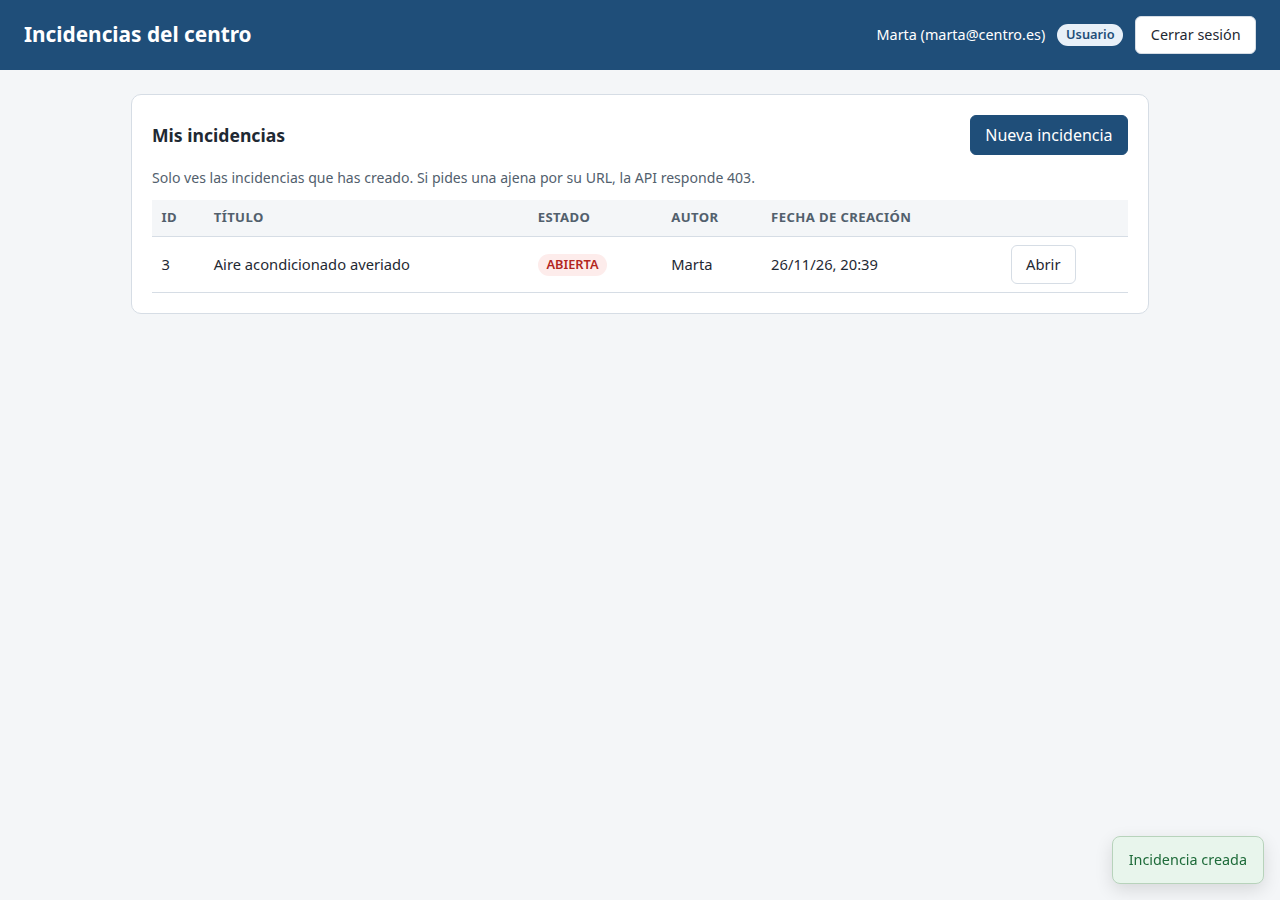
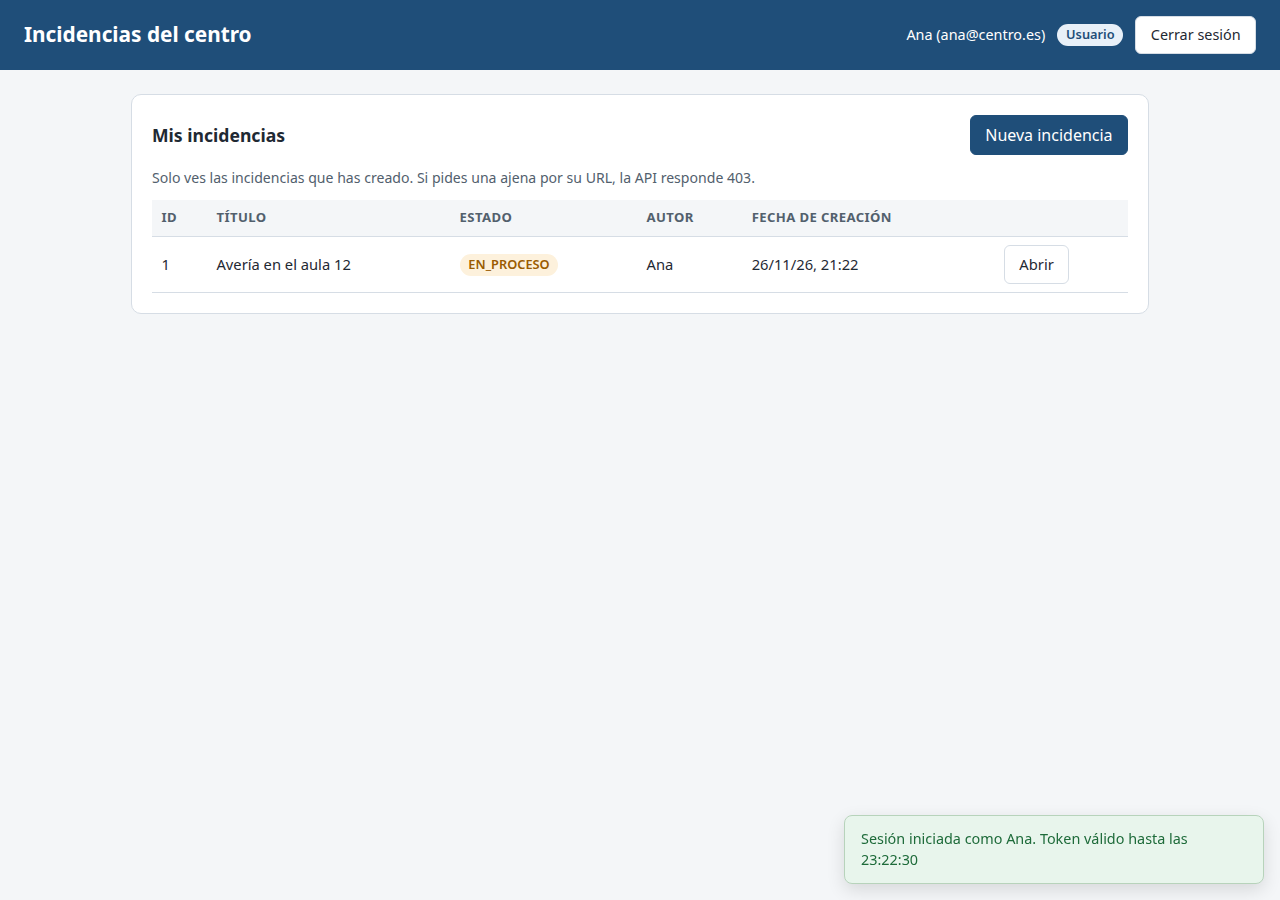
Documento los usuarios de prueba

diff --git a/README.md b/README.md
@@ -41,6 +41,10 @@ Además:
   propiedad al consultar una incidencia concreta (no basta con ocultar enlaces).
 - Lista blanca de roles al modificarlos y todas las operaciones de
   administración reservadas a `ROLE_ADMIN`.
+- **Datos iniciales**: al arrancar se crean (o se actualizan) cuatro usuarios de
+  prueba con contraseña `1234` cifrada con BCrypt: `admin@centro.es`
+  (`ROLE_ADMIN`), `tecnico@centro.es` (`ROLE_TECNICO`), `ana@centro.es` y
+  `luis@centro.es` (`ROLE_USER`).
 - Frontend sin frameworks que guarda el JWT, lo envía como `Bearer` y muestra
   los errores de la API (401, 403, 400, 404, 409).
 
@@ -147,31 +151,35 @@ las peticiones desde cualquier origen en desarrollo.
 Si el backend está en otro host o puerto, cambia `API_URL` en
 `frontend/js/config.js`.
 
-### 4.4. Perfiles iniciales (primer administrador)
+### 4.4. Datos iniciales (usuarios de prueba)
 
-El registro público solo crea `ROLE_USER`, así que el **primer**
-`ROLE_ADMIN` se asigna directamente en la base de datos de desarrollo, como
-pide el enunciado. Después ya se usa la propia API para el resto:
+Al arrancar, `config/DatosIniciales` (un `CommandLineRunner`) comprueba y deja
+siempre estos usuarios, así que **no hay que registrar nada a mano** ni tocar
+la base de datos:
 
-1. Registra los usuarios (desde el frontend o con `curl`, ver más abajo).
-2. Promociona el primero a administrador:
-
-   ```bash
-   mysql -h127.0.0.1 -P3307 -uroot -p incidencias < db/roles.sql
-   ```
-
-3. Inicia sesión con ese usuario (el token anterior seguía siendo `ROLE_USER`)
-   y usa `PATCH /usuarios/{id}/rol` para convertir otro usuario en
-   `ROLE_TECNICO` o `ROLE_ADMIN`.
-
-Usuarios que crea `docs/comprobaciones.sh`:
-
-| Email | Contraseña | Rol final |
+| Email (usuario) | Contraseña | Rol |
 |---|---|---|
-| `ana@centro.es` | `password123` | `ROLE_USER` |
-| `luis@centro.es` | `password123` | `ROLE_USER` |
-| `tecnico@centro.es` | `password123` | `ROLE_TECNICO` (lo asigna el admin) |
-| `admin@centro.es` | `password123` | `ROLE_ADMIN` (SQL) |
+| `admin@centro.es` | `1234` | `ROLE_ADMIN` |
+| `tecnico@centro.es` | `1234` | `ROLE_TECNICO` |
+| `ana@centro.es` | `1234` | `ROLE_USER` |
+| `luis@centro.es` | `1234` | `ROLE_USER` |
+
+- La contraseña se guarda **ya cifrada**: en el código solo hay un hash BCrypt de
+  `1234` (comentado), nunca la contraseña en claro en la base de datos.
+- El seed es idempotente: si el usuario no existe lo crea y, si existe,
+  actualiza su rol, su estado y su contraseña, de modo que estos cuatro datos de
+  prueba son siempre los mismos tras un reinicio. Cualquier cambio de rol que se
+  haga sobre ellos por la API se pierde al reiniciar (el resto de usuarios no se
+  toca).
+- El registro público (`/auth/register`) solo crea `ROLE_USER`, como pide el
+  enunciado. La promoción manual del primer administrador por SQL
+  (`db/roles.sql`) queda como alternativa si se quiere hacer sin el seed.
+- `docs/comprobaciones.sh` intenta registrar los mismos emails y tolera el
+  `409` que devuelve la API cuando ya existen por el seed.
+
+> Para probar la aplicación desde el frontend: `admin@centro.es` / `1234`
+> (administrador), `tecnico@centro.es` / `1234` (técnico) y
+> `ana@centro.es` / `1234` (usuario).
 
 ---
 
@@ -201,7 +209,7 @@ curl -X POST http://localhost:8080/auth/register -H 'Content-Type: application/j
 
 # Login: devuelve {"token": "eyJhbGciOiJIUzI1NiJ9..."}
 TOKEN=$(curl -s -X POST http://localhost:8080/auth/login -H 'Content-Type: application/json' \
-  -d '{"email":"ana@centro.es","password":"password123"}' | jq -r .token)
+  -d '{"email":"ana@centro.es","password":"1234"}' | jq -r .token)
 
 # Crear una incidencia (el autor sale del token)
 curl -X POST http://localhost:8080/incidencias -H "Authorization: Bearer $TOKEN" \
@@ -313,8 +321,9 @@ Regla práctica: *401 = no sé quién eres; 403 = sé quién eres, pero no puede
 ## 7. Comprobaciones realizadas
 
 El script `docs/comprobaciones.sh` automatiza las comprobaciones del enunciado
-con `curl` y `jq`. Crea los cuatro usuarios, promueve al primer administrador
-por SQL, y verifica **30 casos** (todos en verde en la última ejecución):
+con `curl` y `jq`. Usa los cuatro usuarios de prueba que crea el seed
+(contraseña `1234`) y verifica **30 casos** (todos en verde en la última
+ejecución):
 
 ```
 Resultado: 30 comprobaciones correctas, 0 fallidas
@@ -345,7 +354,7 @@ Casos cubiertos:
 # 1. Base de datos vacía (opcional, para empezar de cero)
 mysql -h127.0.0.1 -P3307 -uroot -p -e "DROP DATABASE IF EXISTS incidencias;"
 
-# 2. Backend arrancado
+# 2. Backend arrancado: al iniciar crea los usuarios de prueba (contraseña 1234)
 ./mvnw spring-boot:run
 
 # 3. En otra terminal
@@ -677,6 +686,7 @@ commits, sin publicar nada en GitHub.
 | **`@Transactional` en los servicios** | El mapeo a DTO del autor (`LAZY`) se hace dentro de la transacción; sin ella aparecería `LazyInitializationException`. |
 | **401 y 403 de Spring Security sin clases propias** | Es el comportamiento por defecto al usar `oauth2ResourceServer` (igual que en `MatriculasSpring`): menos código y el estándar de la plataforma; el frontend traduce el código de estado a un mensaje en español. |
 | **Frontend separado con `CorsConfig`** | Como en `MatriculasSpring`: permite abrir el frontend desde otro origen o directamente con `file://` en desarrollo. En producción se limitarían los orígenes. |
+| **Datos iniciales con hash BCrypt fijo** | El enunciado pide empezar con un administrador ya creado; un `CommandLineRunner` idempotente deja los cuatro usuarios de prueba listos en cada arranque, sin pasos manuales en la base de datos y sin contraseñas en claro (solo el hash de `1234`). |
 | **JWT en `localStorage`** | Es lo que pide la tarea y lo que se ve en clase. Es vulnerable a XSS; con una cookie `HttpOnly` se mitigaría, a cambio de más complejidad (CSRF, CORS con credenciales). |
 | **Sin H2 ni frameworks de test** | No se añaden tecnologías que no se hayan visto en clase; las comprobaciones del enunciado se hacen con `curl`/Postman y el script `docs/comprobaciones.sh`, y se documentan en el README. `mvnw test` sigue disponible para futuras pruebas. |
 
@@ -702,7 +712,7 @@ IncidenciasAPI/
 └── src/main/
     ├── java/ovh/emserv/incidenciasapi/
     │   ├── IncidenciasApiApplication.java
-    │   ├── config/       SecurityConfig, CorsConfig
+    │   ├── config/       SecurityConfig, CorsConfig, DatosIniciales
     │   ├── controller/   AuthController, IncidenciaController, UsuarioController
     │   ├── DTO/          Peticiones y respuestas de la API
     │   ├── entity/       Usuario, Incidencia, EstadoIncidencia

diff --git a/AGENTS.md b/AGENTS.md
@@ -50,7 +50,8 @@ El proyecto debe poder explicarse con lo trabajado en el módulo. Por tanto:
 
 ```
 src/main/java/ovh/emserv/incidenciasapi/
-├── config/       SecurityConfig (rutas, JWT, BCrypt), CorsConfig
+├── config/       SecurityConfig (rutas, JWT, BCrypt), CorsConfig,
+│                 DatosIniciales (usuarios de prueba al arrancar)
 ├── controller/   AuthController, IncidenciaController, UsuarioController
 ├── DTO/          UsuarioRequest, UsuarioResponse, LoginRequest,
 │                 IncidenciaRequest, IncidenciaResponse,
@@ -112,6 +113,12 @@ postman/          Colección de Postman de la API
    clave de forma aleatoria al arrancar: los tokens deben sobrevivir a un
    reinicio con la misma clave.
 7. Nunca expongas entidades JPA con la contraseña ni datos internos: usa DTO.
+8. **Datos iniciales**: `config/DatosIniciales` deja en cada arranque los usuarios
+   `admin@centro.es` (ROLE_ADMIN), `tecnico@centro.es` (ROLE_TECNICO),
+   `ana@centro.es` y `luis@centro.es` (ROLE_USER), todos con contraseña `1234`
+   **ya cifrada** (hash BCrypt fijo y comentado en el código). El seed es
+   idempotente y resetea rol, estado y contraseña de esos cuatro usuarios; no
+   añadas contraseñas en claro en el código ni en la base de datos.
 
 ## 6. Configuración y secretos
 
@@ -123,8 +130,9 @@ postman/          Colección de Postman de la API
   `DB_PASSWORD`. No cambies el nombre de la base de datos (`incidencias`) ni el
   puerto (3307) sin justificarlo.
 - No crees la base de datos ni las tablas a mano: `createDatabaseIfNotExist=true`
-  y `ddl-auto=update` lo hacen al arrancar. El único paso manual es el primer
-  `ROLE_ADMIN` (`db/roles.sql`).
+  y `ddl-auto=update` lo hacen al arrancar. Los usuarios de prueba (incluido el
+  `ROLE_ADMIN`) los crea `config/DatosIniciales`; `db/roles.sql` es solo una
+  alternativa manual.
 
 ## 7. Validación
 

diff --git a/docs/guion-video.md b/docs/guion-video.md
@@ -25,6 +25,10 @@ Duración objetivo: 8–10 minutos. Todo lo que se muestra está verificado con
 
 ## 0:30 · Arranque y base de datos (40 s)
 
+- Al arrancar, la aplicación crea los usuarios de prueba: `admin@centro.es`,
+  `tecnico@centro.es`, `ana@centro.es` y `luis@centro.es`, todos con contraseña
+  `1234` (cifrada con BCrypt en el código).
+
 - Enseña `application.properties`: URL `jdbc:mysql://localhost:3307/incidencias`
   con `createDatabaseIfNotExist=true` y `ddl-auto=update`; no hay que crear la
   base de datos ni las tablas a mano.
@@ -33,7 +37,8 @@ Duración objetivo: 8–10 minutos. Todo lo que se muestra está verificado con
 
 ## 1:10 · Registro y login en el frontend (60 s)
 
-- Registra `marta@centro.es` desde la interfaz.
+- Inicia sesión con `ana@centro.es` / `1234` y, si quieres, registra un usuario
+  nuevo (`marta@centro.es`) desde la interfaz.
 - Fíjate en que la respuesta trae `"rol":"ROLE_USER"` aunque se envíe otro rol:
   el registro no acepta roles privilegiados.
 - Inicia sesión, abre las herramientas del navegador → Application →
